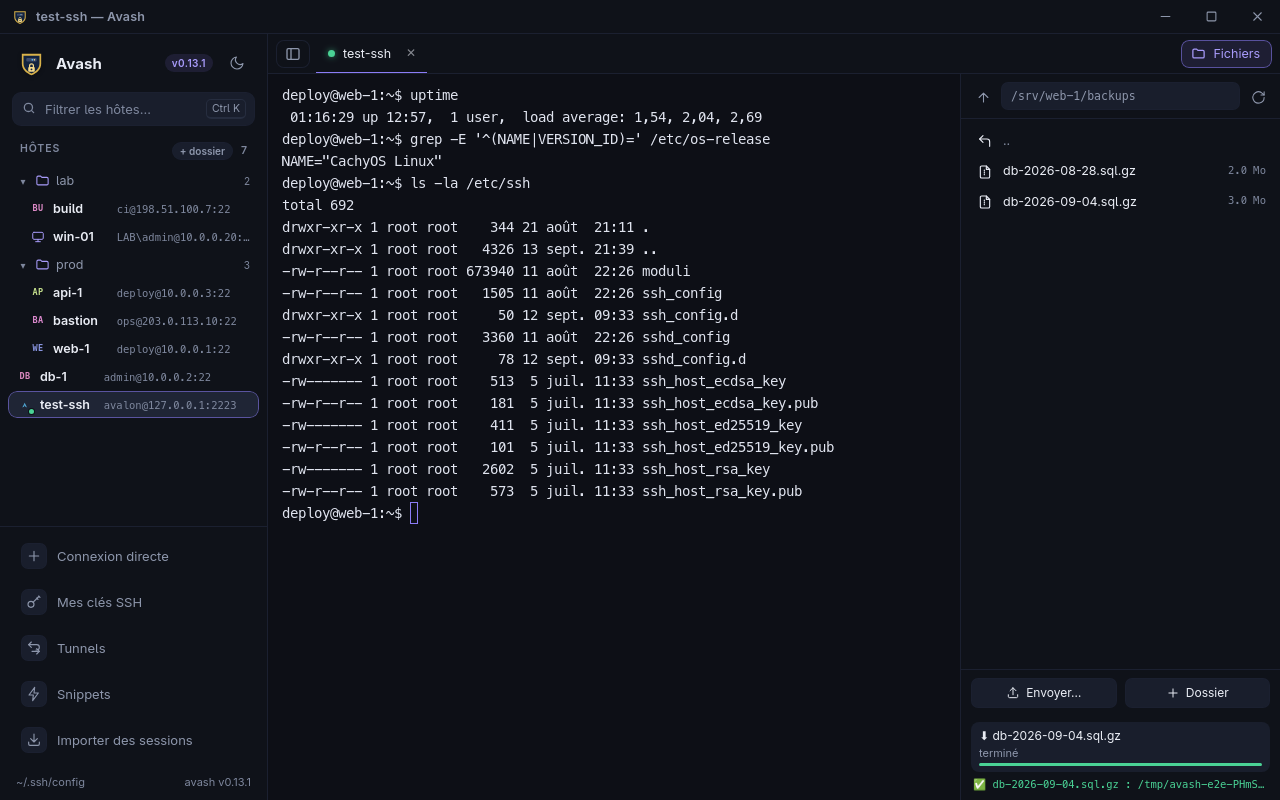
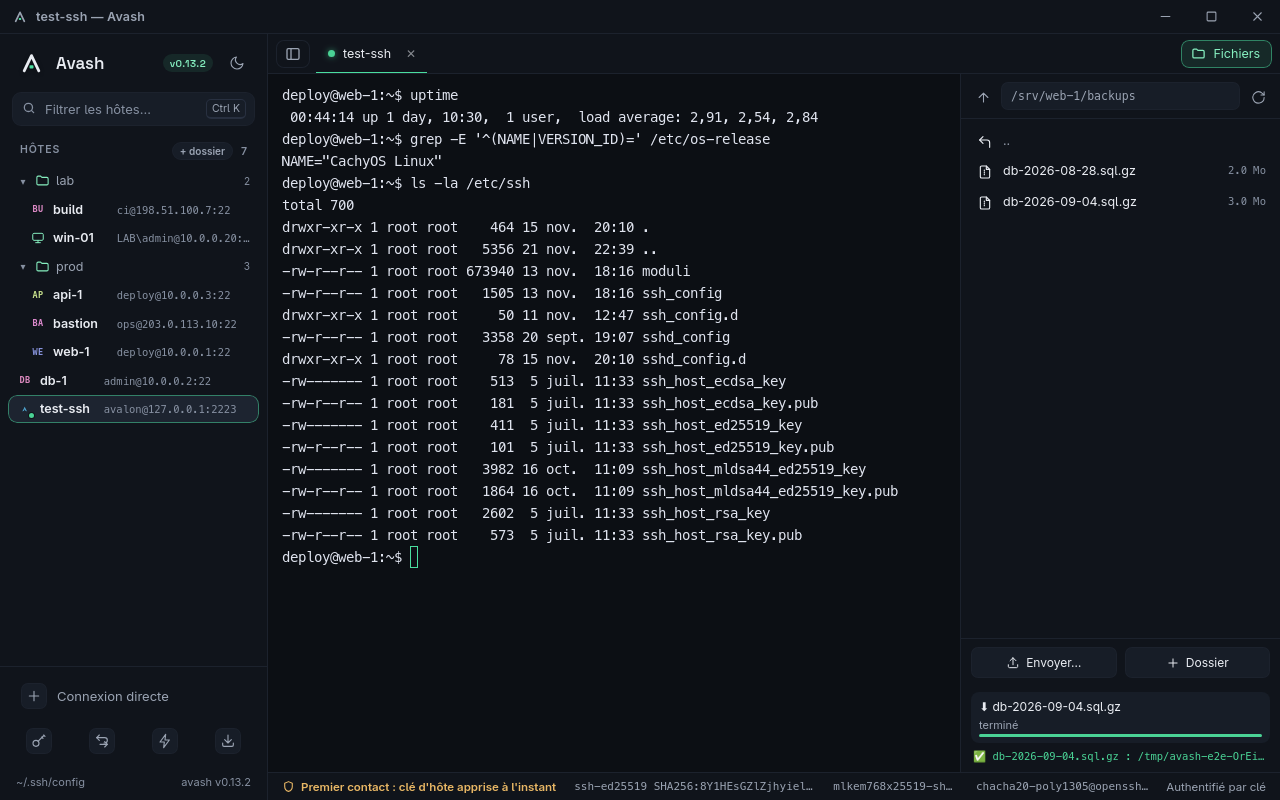
docs(identite): vitrine, captures et aperçu social aux nouvelles couleurs
La vitrine reprend la palette « Encre et menthe » de l'application ; l'encre
posée sur l'accent devient un jeton, sombre sur la menthe du thème sombre,
blanche sur le vert profond du thème clair (elle était blanche en dur).

Captures du README régénérées sur la vraie application par
scripts/captures-readme.sh : accueil, terminal avec sa barre d'état de
sécurité, panneau SFTP. L'animation demo.webp reste l'ancienne : ffmpeg du
poste ne se lance plus (libsndio.so.9 manquante, mise à jour partielle du
système), le script s'arrête sur cette étape après avoir écrit les PNG.

L'aperçu social était un PNG sans source : scripts/apercu-social.sh le
redessine en SVG avec la nouvelle marque. Badge de version des README passé
au vert de l'identité, titres des boîtes de dialogue dans la police de titre.

Claude-Session: https://claude.ai/code/session_01Hd4wN2fKRxVa4HkUikexex

diff --git a/site/style.css b/site/style.css
@@ -4,15 +4,19 @@
 
 :root {
   color-scheme: light dark;
-  --fond: #0f1117;
-  --fond-2: #161a24;
-  --fond-3: #1d2230;
-  --texte: #e8e9ee;
-  --texte-2: #a9adb9;
-  --accent: #8b7cf6;
-  --accent-2: #b7adff;
+  /* Identité « Encre et menthe », la même que l'application (novembre 2026). */
+  --fond: #0c0f14;
+  --fond-2: #10141b;
+  --fond-3: #171d27;
+  --texte: #e8ebf1;
+  --texte-2: #a3abb9;
+  --accent: #4ade9f;
+  --accent-2: #86efc0;
+  /* Encre posée sur un aplat d'accent : sombre sur la menthe, blanche sur le
+     vert profond du thème clair. */
+  --sur-accent: #06130d;
   --ok: #3ddc84;
-  --bord: #262b3a;
+  --bord: #283040;
   --rayon: 14px;
   --max: 1080px;
   font-family: system-ui, -apple-system, "Segoe UI", Roboto, Ubuntu, Cantarell, "Noto Sans", sans-serif;
@@ -27,8 +31,9 @@
     --fond-3: #eeeef6;
     --texte: #171923;
     --texte-2: #555b6e;
-    --accent: #6b5ce7;
-    --accent-2: #4d3fc7;
+    --accent: #0f7a52;
+    --accent-2: #0b6846;
+    --sur-accent: #fff;
     --bord: #dcdde8;
   }
 }
@@ -123,7 +128,7 @@ p { margin: 0 0 1rem; }
   align-items: center;
   gap: 0.5rem;
   background: var(--accent);
-  color: #fff;
+  color: var(--sur-accent);
   font-weight: 600;
   padding: 0.75rem 1.3rem;
   border-radius: 999px;
@@ -260,7 +265,7 @@ ul.liste li strong { color: var(--texte); }
   cursor: pointer;
 }
 
-.onglets button[aria-selected="true"] { color: #fff; background: var(--accent); border-color: transparent; }
+.onglets button[aria-selected="true"] { color: var(--sur-accent); background: var(--accent); border-color: transparent; }
 
 .panneau { display: none; }
 .panneau[data-actif] { display: block; }

diff --git a/web/index.html b/web/index.html
@@ -851,7 +851,7 @@
     /* Une modale trop haute defile ; elle ne comprime pas ses blocs (un
        <details> a overflow:hidden se ferait rogner, bouton compris). */
     .modal > * { flex-shrink: 0; }
-    .modal h2 { font-size: 16px; font-weight: 700; letter-spacing: -.1px; }
+    .modal h2 { font-family: var(--titre); font-size: 17px; font-weight: 600; letter-spacing: -.2px; }
     .modal-hint { margin: -8px 0 2px; font-size: 12px; color: var(--text-dim); line-height: 1.45; }
     .modal label { display: flex; flex-direction: column; gap: 5px; font-size: 12px; color: var(--text-dim); }
 

diff --git a/README.md b/README.md
@@ -11,7 +11,7 @@ seule application, qui lit votre `~/.ssh/config` tel quel.
 
 [Site](https://adrienavalon.github.io/avash/) · [Français](README.md) · [English](README.en.md)
 
-[![Version](https://img.shields.io/github/v/release/AdrienAvalon/avash?label=version&color=8b7cf6)](https://github.com/AdrienAvalon/avash/releases/latest)
+[![Version](https://img.shields.io/github/v/release/AdrienAvalon/avash?label=version&color=0f7a52)](https://github.com/AdrienAvalon/avash/releases/latest)
 [![winget](https://img.shields.io/winget/v/AdrienCros.Avash?label=winget&color=0078d4)](https://github.com/microsoft/winget-pkgs/tree/master/manifests/a/AdrienCros/Avash)
 [![Téléchargements](https://img.shields.io/github/downloads/AdrienAvalon/avash/total?label=t%C3%A9l%C3%A9chargements&color=2ea44f)](https://github.com/AdrienAvalon/avash/releases)
 [![Plateformes](https://img.shields.io/badge/Linux%20%C2%B7%20Windows%20%C2%B7%20macOS-plateformes-informational)](#installation)

diff --git a/README.en.md b/README.en.md
@@ -11,7 +11,7 @@ application, which reads your `~/.ssh/config` as it is.
 
 [Website](https://adrienavalon.github.io/avash/en/) · [Français](README.md) · [English](README.en.md)
 
-[![Version](https://img.shields.io/github/v/release/AdrienAvalon/avash?label=version&color=8b7cf6)](https://github.com/AdrienAvalon/avash/releases/latest)
+[![Version](https://img.shields.io/github/v/release/AdrienAvalon/avash?label=version&color=0f7a52)](https://github.com/AdrienAvalon/avash/releases/latest)
 [![winget](https://img.shields.io/winget/v/AdrienCros.Avash?label=winget&color=0078d4)](https://github.com/microsoft/winget-pkgs/tree/master/manifests/a/AdrienCros/Avash)
 [![Downloads](https://img.shields.io/github/downloads/AdrienAvalon/avash/total?label=downloads&color=2ea44f)](https://github.com/AdrienAvalon/avash/releases)
 [![Platforms](https://img.shields.io/badge/Linux%20%C2%B7%20Windows%20%C2%B7%20macOS-platforms-informational)](#install)

diff --git a/CHANGELOG.md b/CHANGELOG.md
@@ -37,6 +37,9 @@ et le projet suit le [versionnage sémantique](https://semver.org/lang/fr/).
   nommées au survol et pour les lecteurs d'écran.
 - Titres et marque en Space Grotesk, embarquée (13 Ko, SIL OFL 1.1) : Avash
   ne fait toujours aucune requête réseau pour s'afficher.
+- Vitrine, captures du README et aperçu social aux nouvelles couleurs ;
+  l'aperçu social a désormais sa source (`scripts/apercu-social.sh`).
+  L'animation de démonstration n'est pas encore refaite.
 
 ### Sécurité
 
